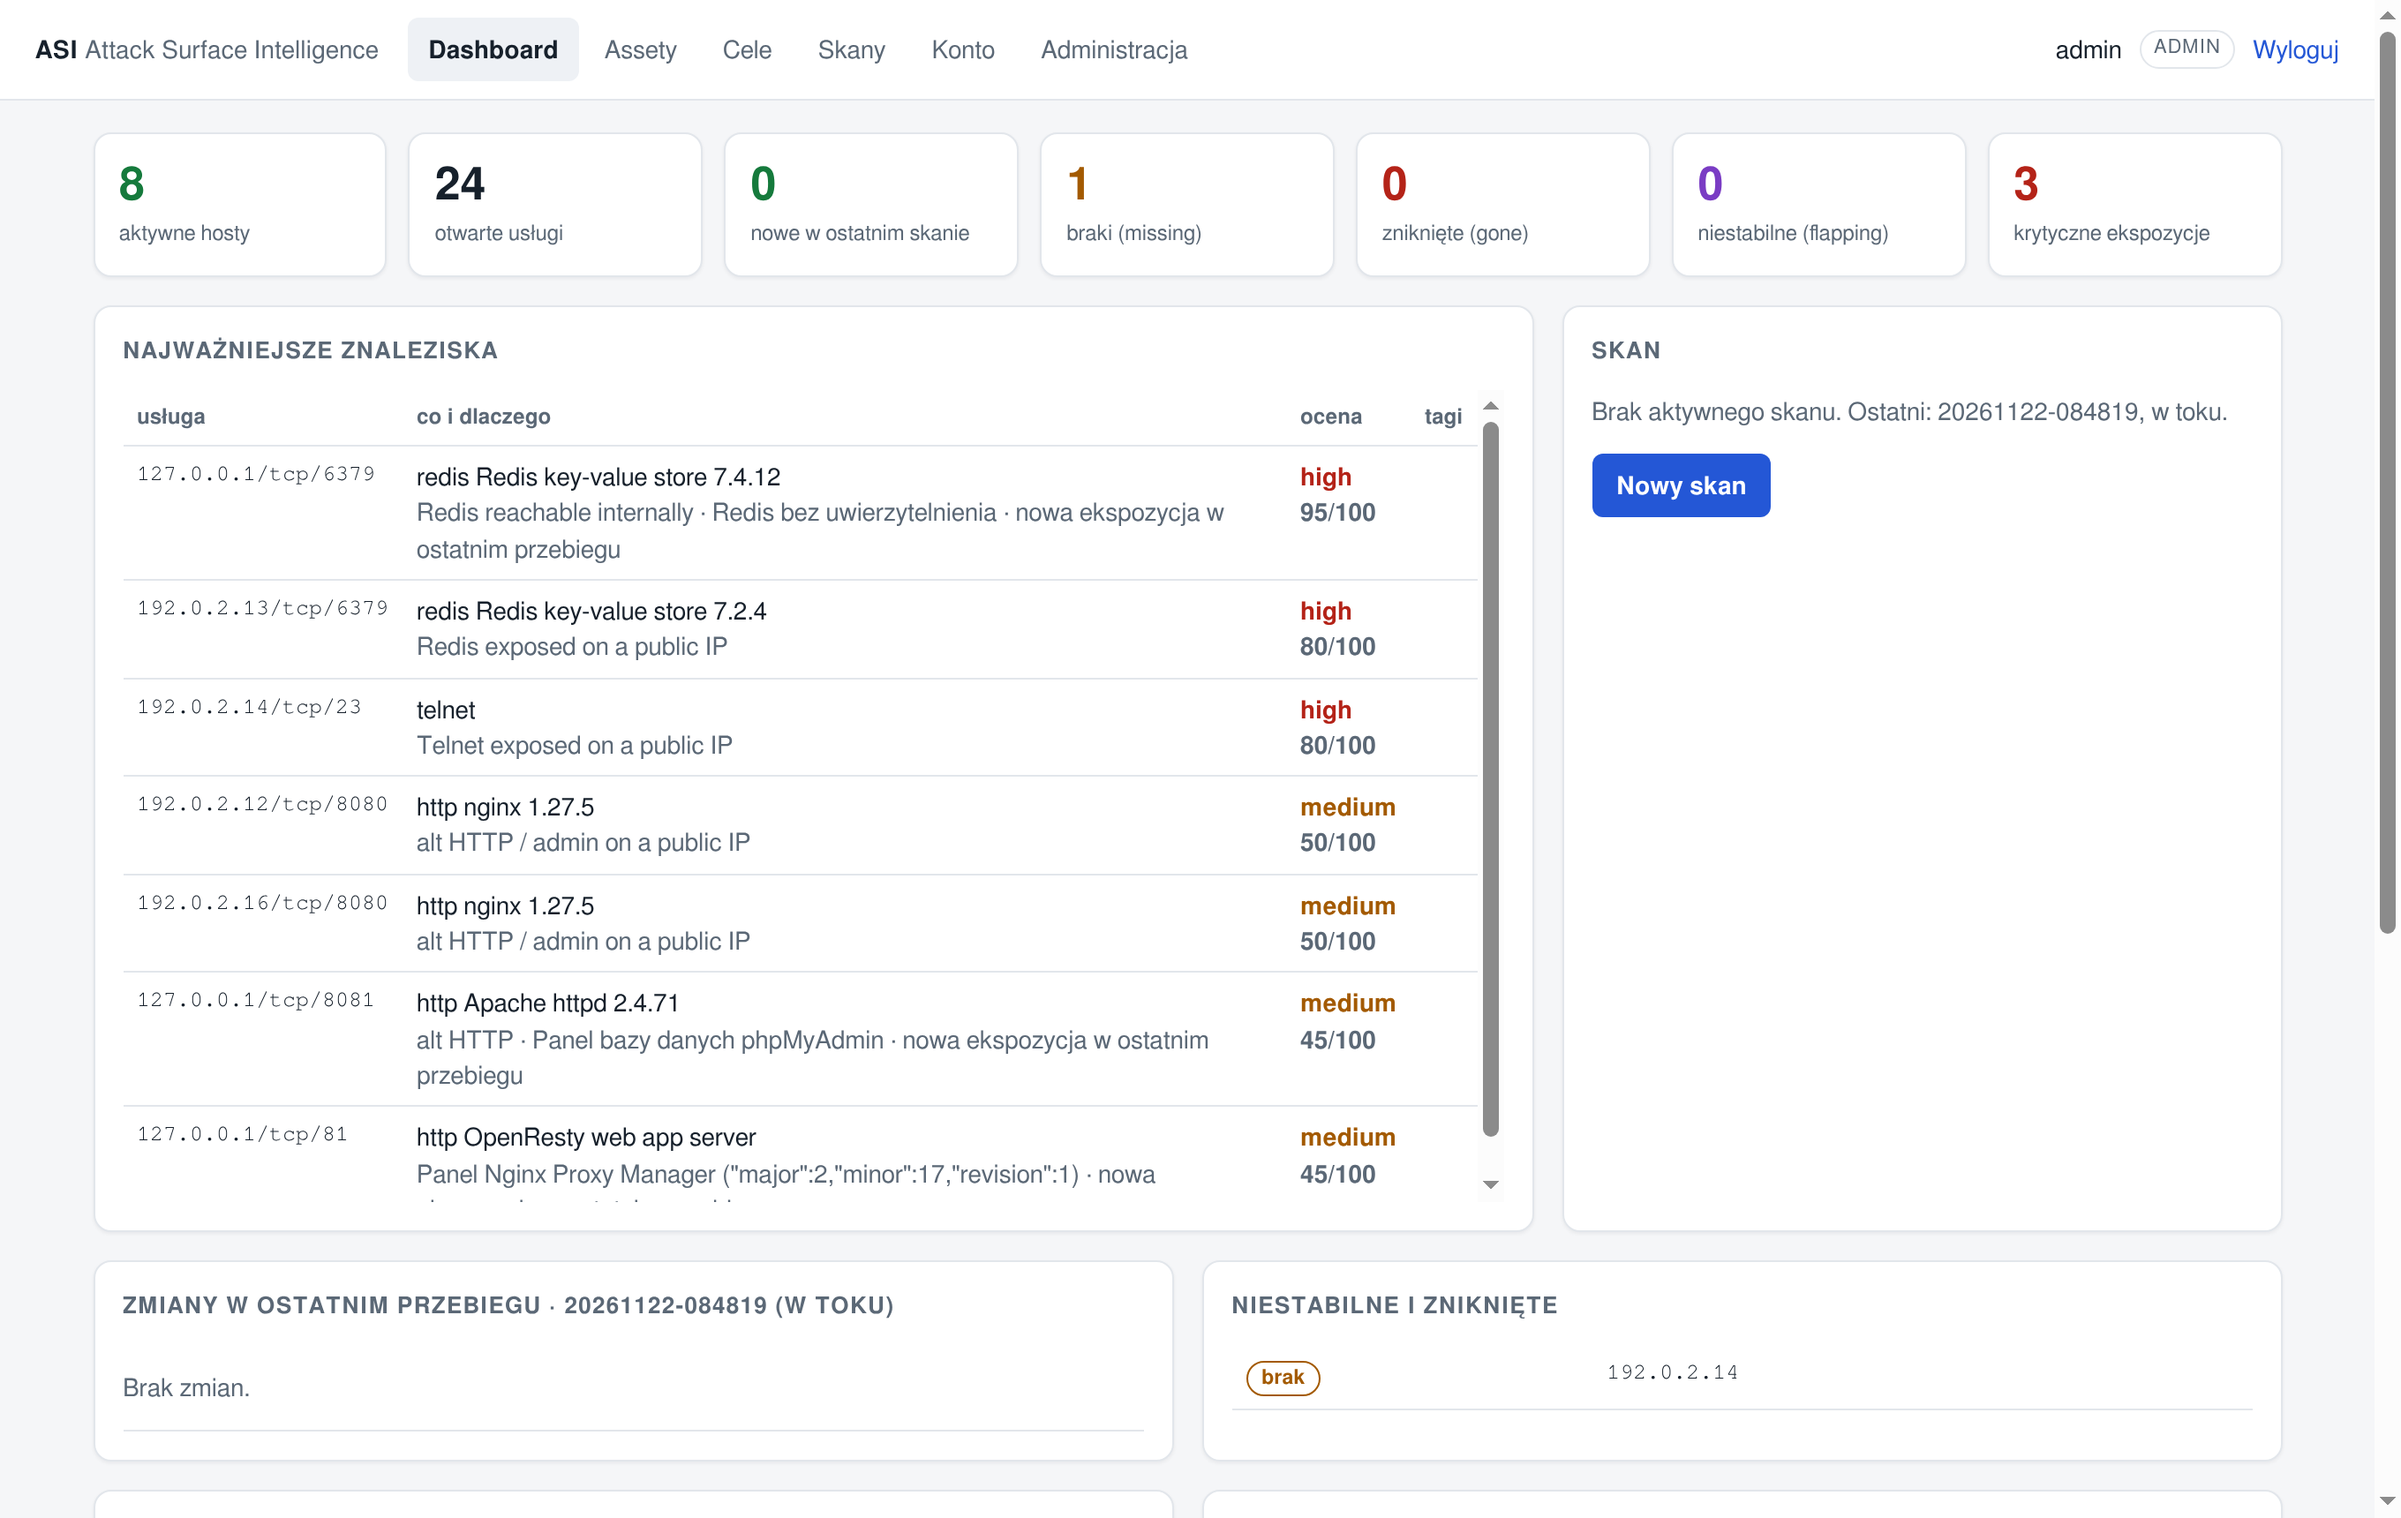
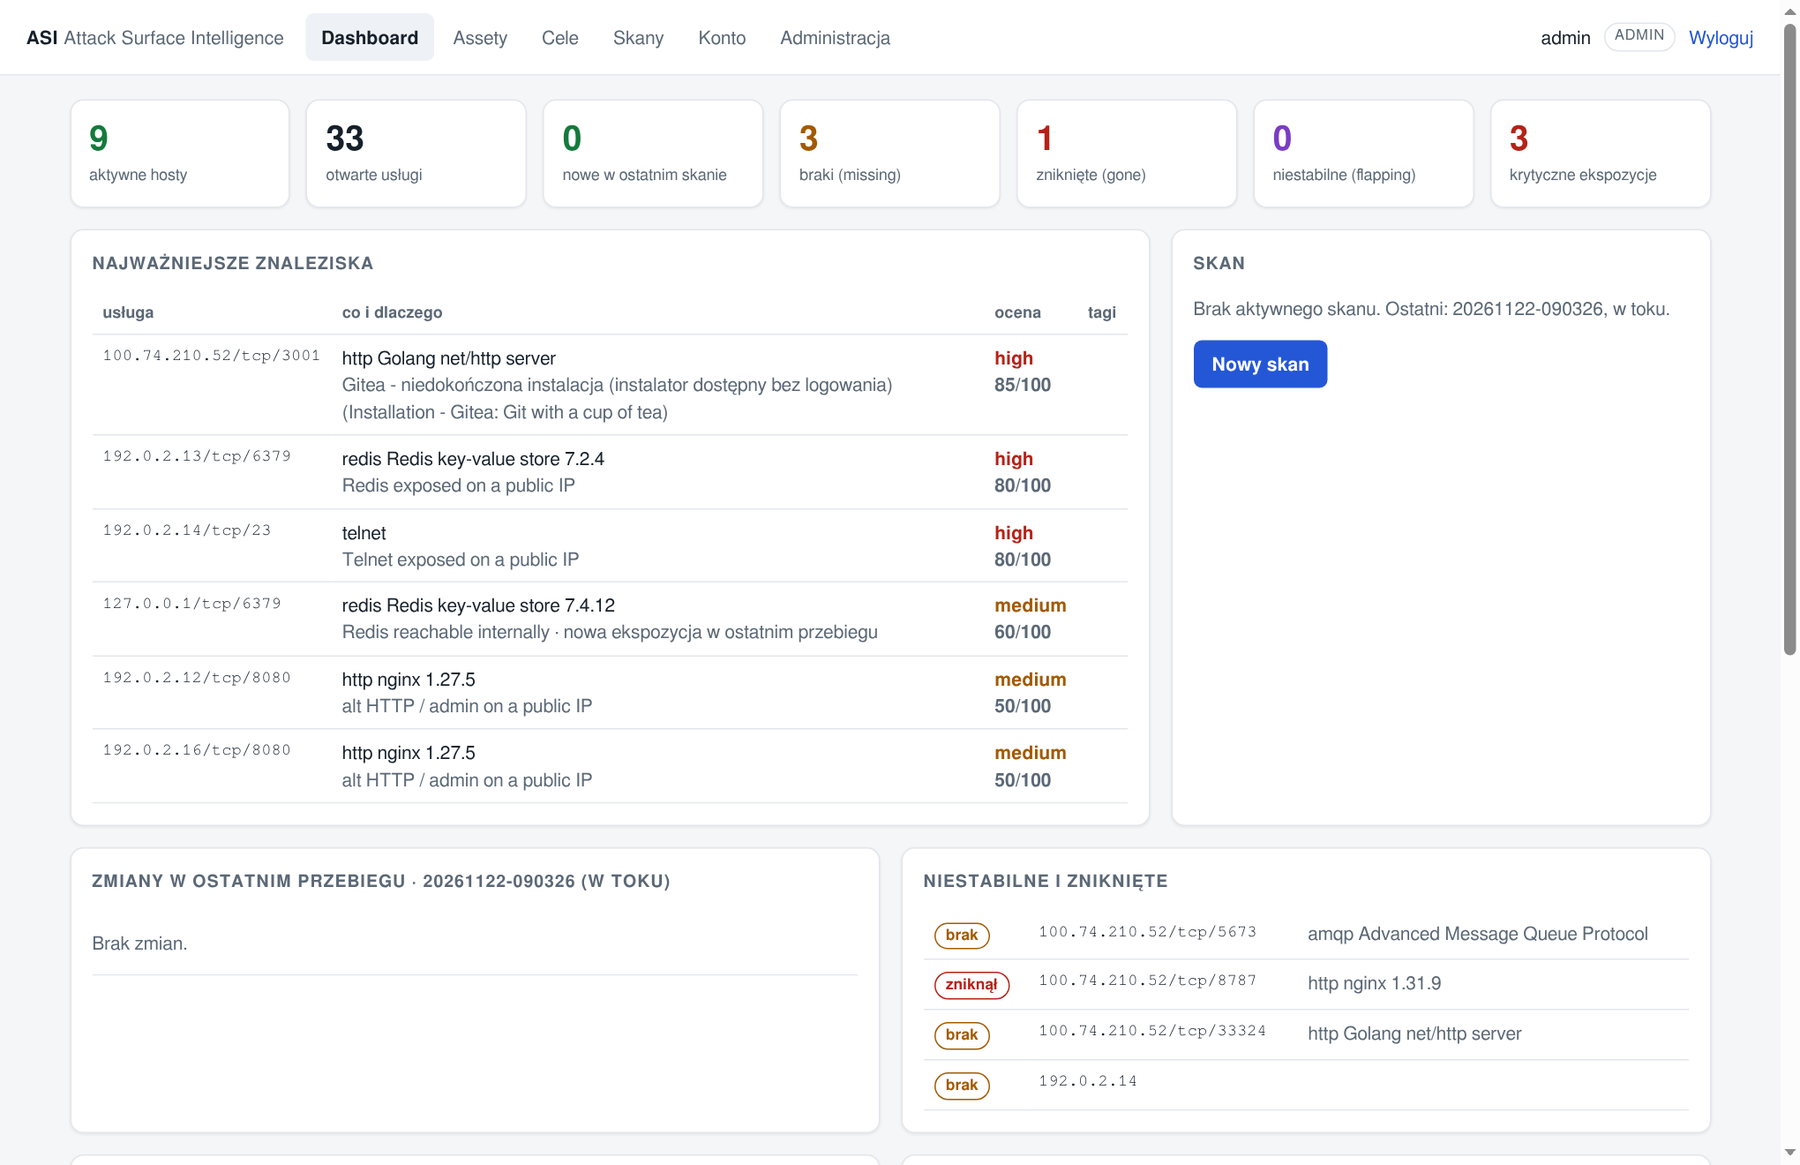
ALL-1: zrzuty ekranu z panelu i DefectDojo na slajdach 5, 7 i 9

diff --git a/docs/presentation/asi.tex b/docs/presentation/asi.tex
@@ -30,6 +30,7 @@
 \newcommand{\TODO}[1]{\textcolor{asiWarn}{\textbf{[TODO: #1]}}}
 \newcommand{\cmd}[1]{\texttt{\small #1}}
 \newcommand{\shot}[2]{\setlength{\fboxsep}{0pt}\setlength{\fboxrule}{0.5pt}\fcolorbox{gray!50}{white}{\includegraphics[width=#1]{#2}}}
+\newcommand{\shoth}[2]{\setlength{\fboxsep}{0pt}\setlength{\fboxrule}{0.5pt}\fcolorbox{gray!50}{white}{\includegraphics[height=#1]{#2}}}
 
 \title{Asia -- Attack Surface Intelligence Aggregator}
 \subtitle{ASI: cykliczny discovery scan dużych sieci jako źródło danych dla DefectDojo}
@@ -123,25 +124,25 @@
 % 5 --------------------------------------------------------------------------
 \begin{frame}{Fingerprint i własne sygnatury}
   \begin{columns}[T]
-    \column{0.48\textwidth}
-    \textbf{httpx:} tytuł, kod, \textbf{czas odpowiedzi (ms)}, nagłówki, ciasteczka, certyfikat TLS, przekierowania, technologie (Wappalyzer), favicon mmh3.
+    \column{0.44\textwidth}
+    \scriptsize
+    \textbf{httpx:} tytuł, kod, \textbf{czas odpowiedzi (ms)}, nagłówki, ciasteczka, TLS, przekierowania, technologie (Wappalyzer), favicon mmh3.
 
     \medskip
-    \textbf{nuclei + 34 własne sygnatury} (\cmd{signatures/}, wyłącznie GET / detekcja):
-    \begin{itemize}\small
+    \textbf{nuclei + 34 własne sygnatury} (\cmd{signatures/}, wyłącznie GET):
+    \begin{itemize}\scriptsize
       \item 14 bazowych (CMS, staging, panele, wersje, Redis)
-      \item \textbf{9 IoT} (kamery Hikvision/Dahua, RouterOS, OpenWrt LuCI, drukarki, NAS, UPnP)
+      \item \textbf{9 IoT} (Hikvision/Dahua, RouterOS, OpenWrt LuCI, drukarki, NAS, UPnP)
       \item 11 usług/labu (phpMyAdmin, Adminer, DVWA, Gitea + instalator, RabbitMQ, NPM, Traefik, Toxiproxy)
     \end{itemize}
-    \column{0.48\textwidth}
-    \textbf{Wykryte w labie organizatorów i demo:}
-    \begin{itemize}\small
-      \item WordPress 4.7 + PHP 5.6 (\alert{high}, 75/100) oraz WP 7.1.5 z \cmd{?ver=} CSS
-      \item Redis bez uwierzytelniania (\alert{high}, 95/100)
-      \item niedokończony instalator Gitea (\alert{high}, 85/100)
-      \item panele Adminer, DVWA, phpMyAdmin, Traefik, Toxiproxy, RabbitMQ, NPM
-      \item \textbf{0 prób logowania} w logach labu \cmd{vulnerable} (111 GET, 0 POST, 0 FTP LOGIN)
-    \end{itemize}
+
+    \smallskip
+    \textbf{Wyniki labu:} WP 4.7 + PHP 5.6 (\alert{75/100}), Redis bez hasła (\alert{95/100}), instalator Gitea (\alert{85/100}); \textbf{0 prób logowania} (111 GET, 0 POST, 0 FTP LOGIN).
+    \column{0.53\textwidth}
+    \shot{0.98\linewidth}{img/fingerprint.png}
+
+    \vspace{1.5mm}\scriptsize
+    Szuflada assetu w panelu: HTTP 200, czas odpowiedzi (ostrzeżenie $>300$ ms), nagłówki, ciasteczka, favicon mmh3 i trafienia sygnatur \cmd{nuclei}.
   \end{columns}
 \end{frame}
 
@@ -221,22 +222,32 @@
 
 % 9 --------------------------------------------------------------------------
 \begin{frame}{Integracja z DefectDojo}
-  Każdy przebieg trafia do \textbf{4 stałych testów} przez \cmd{reimport-scan}: DefectDojo samo liczy
-  nowe, zamknięte i reaktywowane znaleziska (jedna kanoniczna instancja DD jako źródło prawdy).
+  \begin{columns}[T]
+    \column{0.58\textwidth}
+    \footnotesize
+    Każdy przebieg trafia do \textbf{4 stałych testów} przez \cmd{reimport-scan}: DefectDojo samo liczy
+    nowe, zamknięte i reaktywowane znaleziska (jedna kanoniczna instancja DD jako źródło prawdy).
 
-  \medskip\small
-  \begin{tabular}{@{}llp{0.48\textwidth}@{}}\toprule
-    test & parser DD & zawartość \\\midrule
-    \cmd{ASI discovery} & Generic Findings & usługi z oceną ciekawości i oceną analityka \\
-    \cmd{asi-changes} & Generic Findings & braki, zniknięcia, flapping, zmiany (otwarte, dopóki trwają) \\
-    \cmd{asi-httpx} & httpx Scan & strony WWW, tytuły, technologie \\
-    \cmd{asi-nuclei} & Nuclei Scan & trafienia własnych sygnatur \\\bottomrule
-  \end{tabular}
+    \medskip\scriptsize
+    \begin{tabular}{@{}llp{0.42\textwidth}@{}}\toprule
+      test & parser DD & zawartość \\\midrule
+      \cmd{ASI discovery} & Generic & usługi z oceną ciekawości i analityka \\
+      \cmd{asi-changes} & Generic & braki, zniknięcia, flapping, zmiany \\
+      \cmd{asi-httpx} & httpx Scan & strony WWW, tytuły, technologie \\
+      \cmd{asi-nuclei} & Nuclei Scan & trafienia własnych sygnatur \\\bottomrule
+    \end{tabular}
 
-  \medskip
-  \textbf{Wynik LAB-6} (5 przebiegów ze zmianą całego stacku i powrotem):
-  \cmd{missing} $\rightarrow$ \cmd{gone} po progu, po powrocie \textbf{reactivated 7 / created 0},
-  \textbf{0 duplikatów} w API we wszystkich 4 testach. Przebieg częściowy lub po \cmd{timedout} nigdy nie zamyka wyników.
+    \medskip\footnotesize
+    \textbf{Wynik LAB-6} (5 przebiegów, zmiana stacku i powrót):
+    \cmd{missing} $\rightarrow$ \cmd{gone} po progu, po powrocie \textbf{reactivated 7 / created 0},
+    \textbf{0 duplikatów} w API we wszystkich 4 testach. Przebieg częściowy lub po \cmd{timedout} nigdy nie zamyka wyników.
+    \column{0.39\textwidth}
+    \centering
+    \shoth{0.66\textheight}{img/defectdojo.png}
+
+    \vspace{1.5mm}\scriptsize
+    Znaleziska z ASI w DefectDojo (tagi \cmd{asi}, priorytety \alert{High}/\textbf{Medium}).
+  \end{columns}
 \end{frame}
 
 % 10 -------------------------------------------------------------------------
